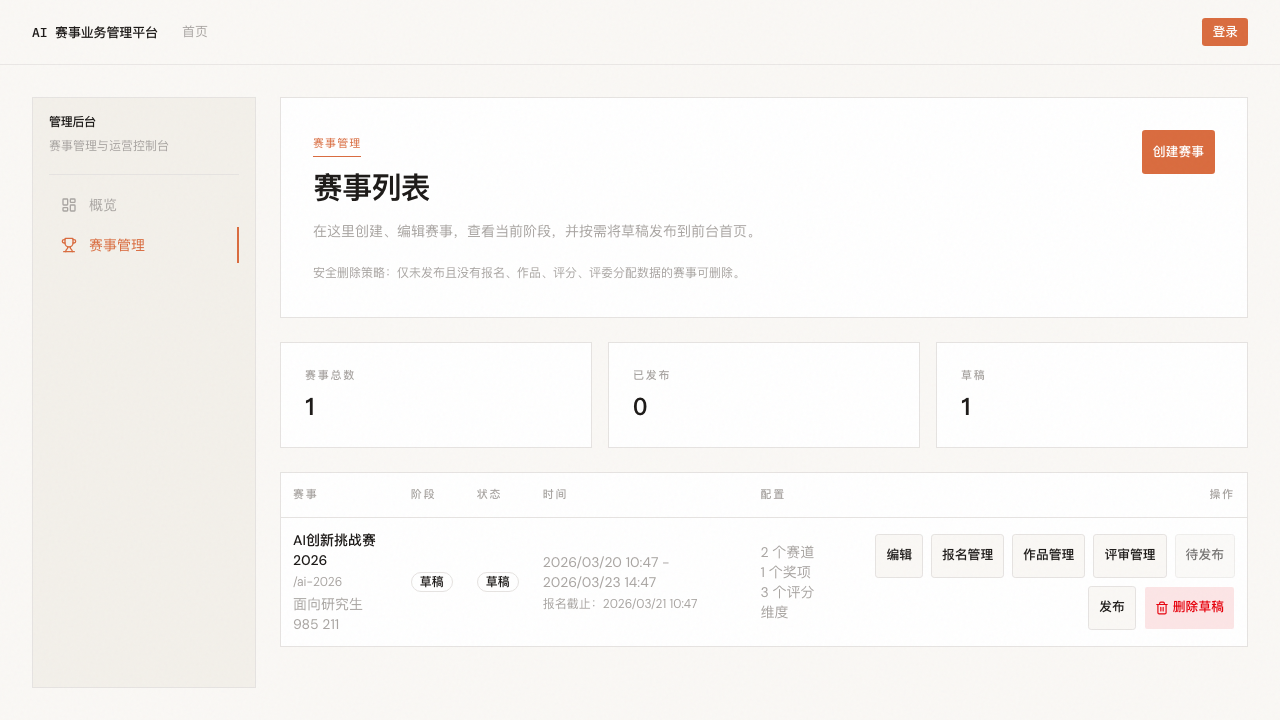
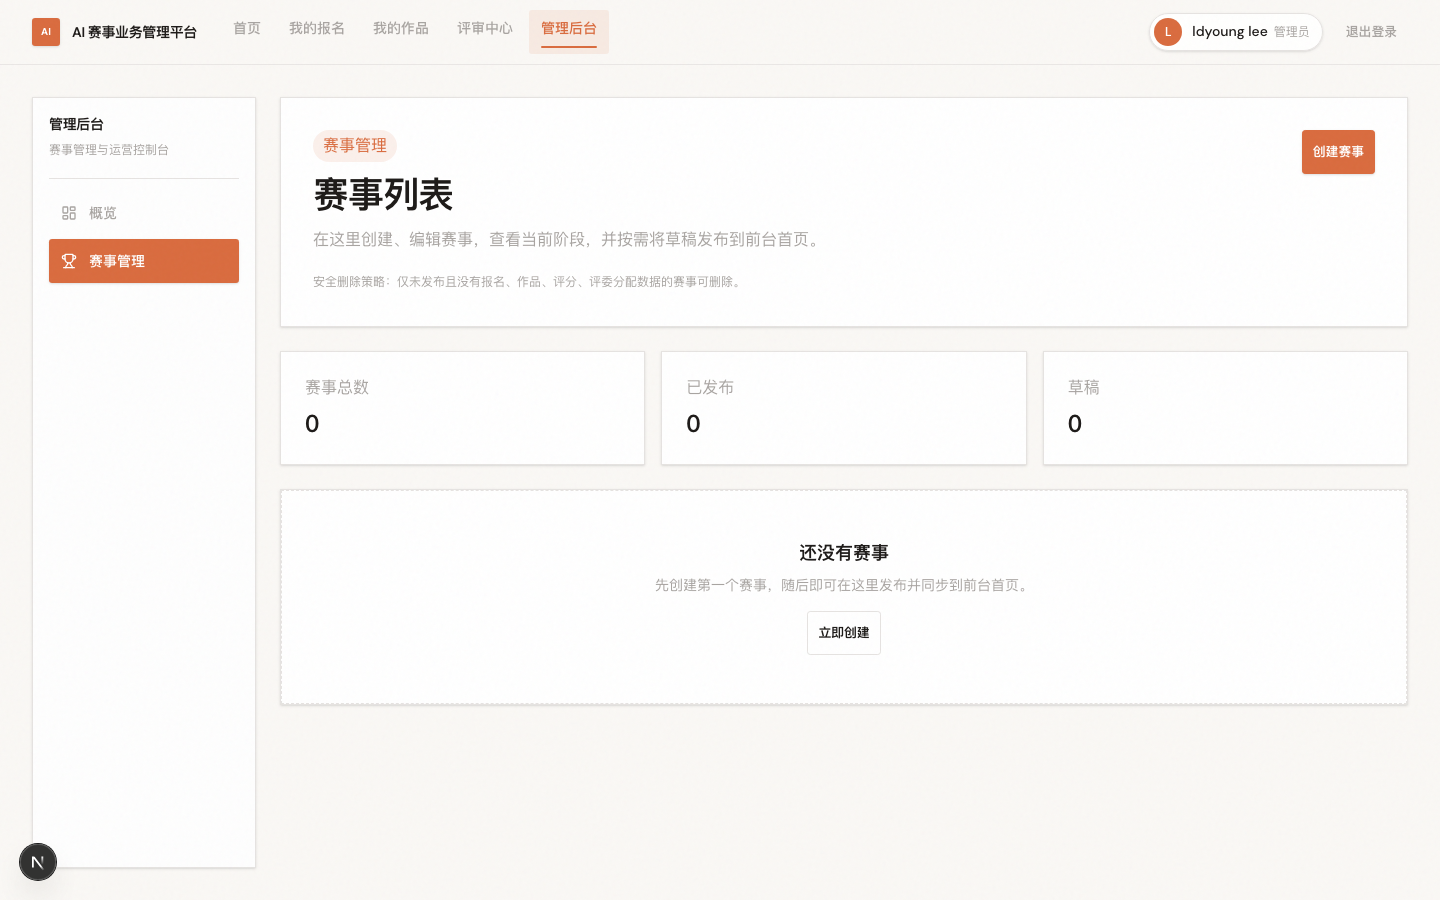
docs: 更新 README 截图与说明，新增快速操作指南
- README: 系统截图从 2 张扩展到 6 张，新增核心流程图、路由总览表、环境变量说明
- 新增 docs/QUICK_START_GUIDE.md 覆盖管理员/参赛者/评委三种角色操作流程
- 更新全部截图为当前最新版本

diff --git a/docs/QUICK_START_GUIDE.md b/docs/QUICK_START_GUIDE.md
@@ -1,0 +1,219 @@
+# AI 赛事业务管理平台 — 快速操作指南
+
+本指南帮助管理员、参赛者、评委快速上手平台核心功能。
+
+---
+
+## 目录
+
+- [一、环境准备](#一环境准备)
+- [二、角色说明](#二角色说明)
+- [三、管理员操作指南](#三管理员操作指南)
+- [四、参赛者操作指南](#四参赛者操作指南)
+- [五、评委操作指南](#五评委操作指南)
+- [六、常见问题](#六常见问题)
+
+---
+
+## 一、环境准备
+
+### 1.1 本地开发环境
+
+```bash
+# 1. 克隆项目
+git clone <repo-url>
+cd 20260317-sspt
+
+# 2. 安装依赖
+bun install
+
+# 3. 配置环境变量
+cp .env.sample .env.local
+# 编辑 .env.local，填写以下必要配置：
+#   DATABASE_URL    — 数据库连接字符串
+#   AUTH_SECRET     — Auth.js 密钥（可用 openssl rand -base64 32 生成）
+#   ADMIN_EMAILS    — 管理员邮箱列表（逗号分隔）
+#   AUTH_GOOGLE_ID  — Google OAuth Client ID
+#   AUTH_GOOGLE_SECRET — Google OAuth Client Secret
+
+# 4. 初始化数据库
+bun run db:migrate
+
+# 5. 启动开发服务器
+bun run dev
+```
+
+打开 [http://localhost:3000](http://localhost:3000) 即可访问。
+
+### 1.2 生产环境
+
+生产环境已部署至 Vercel：**https://sspt-ai.vercel.app/**
+
+---
+
+## 二、角色说明
+
+平台有三种角色，权限逐级递增：
+
+| 角色 | 入口 | 权限范围 |
+|------|------|----------|
+| **参赛者** | 首页 → 登录 | 浏览赛事、报名、提交作品、查看排名 |
+| **评委** | 评审中心 | 对分配的赛事作品进行评分 |
+| **管理员** | 管理后台 | 创建/管理赛事、审核报名、管理作品、分配评委、发布排名 |
+
+> **如何成为管理员？** 在 `.env.local` 的 `ADMIN_EMAILS` 中添加你的 Google 登录邮箱。
+
+---
+
+## 三、管理员操作指南
+
+### 3.1 登录与进入后台
+
+1. 点击右上角 **「登录」** → 使用 Google 账号登录
+2. 登录后导航栏出现 **「管理后台」**，点击进入
+
+![管理后台概览](screenshots/admin-dashboard.png)
+
+### 3.2 创建赛事
+
+1. 进入 **管理后台 → 赛事管理**
+2. 点击右上角 **「创建赛事」**
+3. 填写赛事信息：
+   - **基础信息**：赛事名称、描述、面向对象
+   - **时间窗口**：赛事开始/结束时间、报名截止时间
+   - **赛道设置**：添加一个或多个参赛赛道
+   - **评分维度**：设置评审打分维度及权重
+   - **奖项设置**：配置奖项名称与说明
+4. 点击 **「保存」**，赛事将以 **草稿** 状态创建
+
+### 3.3 发布赛事
+
+1. 在赛事列表中找到目标赛事
+2. 点击 **「发布」** 按钮
+3. 发布后，赛事将出现在前台首页，参赛者可开始报名
+
+> ⚠ 已发布的赛事可以取消发布回到草稿状态。仅未发布且无关联数据的赛事可删除。
+
+### 3.4 报名审核
+
+1. 在赛事列表中点击 **「报名管理」**
+2. 查看报名统计（总数/待审核/已通过/已拒绝）
+3. 操作选项：
+   - **单条审核**：逐条接受或拒绝
+   - **批量操作**：勾选多条后批量接受/拒绝
+   - **导出 CSV**：导出报名数据
+
+### 3.5 作品管理
+
+1. 在赛事列表中点击 **「作品管理」**
+2. 可按状态（草稿/终稿）、赛道筛选
+3. 查看作品详情（描述、源码链接、演示链接、视频）
+4. 导出 CSV
+
+### 3.6 评审管理与排名发布
+
+1. 在赛事列表中点击 **「评审管理」**
+2. **分配评委**：添加评委的邮箱
+3. 查看评分覆盖率和当前排名
+4. 所有评分完成后，点击 **「发布排名」** 将榜单公示到前台
+
+![赛事管理列表](screenshots/admin-events.png)
+
+---
+
+## 四、参赛者操作指南
+
+### 4.1 浏览赛事
+
+1. 访问首页查看当前开放的赛事
+2. 点击赛事卡片进入详情页
+3. 查看赛事时间线、赛道、赛题、奖项、评分维度
+
+### 4.2 报名参赛
+
+1. 在赛事详情页，点击 **「立即报名」**（需先登录）
+2. 填写报名信息（队伍名称、自定义字段等）
+3. 提交后状态为 **「待审核」**
+4. 管理员审核通过后，状态变为 **「已录取」**
+5. 进入 **「我的报名」** 页面，点击 **「确认参赛」**
+
+![我的报名](screenshots/my-registrations.png)
+
+### 4.3 提交作品
+
+1. 确认参赛后，进入赛事详情页点击 **「提交作品」**
+2. 填写作品信息：
+   - 作品名称与描述
+   - 选择参赛赛道与赛题
+   - 填写源码链接、演示链接、视频链接等
+3. 可先保存为 **草稿**，在提交窗口关闭前提交 **终稿**
+4. 在 **「我的作品」** 页面追踪所有作品状态
+
+![我的作品](screenshots/my-projects.png)
+
+### 4.4 查看排名
+
+排名发布后，在赛事详情页底部可查看公开榜单。
+
+---
+
+## 五、评委操作指南
+
+### 5.1 进入评审中心
+
+1. 登录后，导航栏出现 **「评审中心」**（仅被分配了评审任务时可见）
+2. 查看被分配的赛事及评审进度（待评/已评数量）
+
+![评审中心](screenshots/judge.png)
+
+### 5.2 对作品评分
+
+1. 点击 **「进入评审」** 进入单赛事评分页
+2. 左侧展示终稿作品列表（含待评/已评状态标记）
+3. 点击作品查看详情
+4. 右侧按评分维度逐项打分（1-10 分），填写评语
+5. 点击 **「保存评分」**，可反复修改直到评审窗口关闭
+
+---
+
+## 六、常见问题
+
+### Q: 登录后看不到「管理后台」入口？
+
+确保你的 Google 登录邮箱已添加到 `.env.local` 的 `ADMIN_EMAILS` 环境变量中。修改后需重启开发服务器。
+
+### Q: 报名按钮是灰色的？
+
+检查赛事是否在报名窗口期内（当前时间需在报名截止时间之前）。
+
+### Q: 提交作品时显示「不在提交窗口内」？
+
+作品提交有时间窗口限制，需在赛事设定的提交时间范围内操作。
+
+### Q: 评委看不到「评审中心」？
+
+评委需要由管理员在后台「评审管理」中分配。分配后刷新页面即可看到入口。
+
+### Q: 如何删除赛事？
+
+仅 **未发布** 且没有报名、作品、评分等关联数据的赛事可以删除。已发布赛事需先取消发布。
+
+---
+
+## 核心流程速览
+
+```
+管理员创建赛事 → 发布赛事
+                    ↓
+        参赛者浏览 → 报名 → 等待审核
+                    ↓
+        管理员审核报名 → 通过
+                    ↓
+        参赛者确认参赛 → 提交作品（草稿 → 终稿）
+                    ↓
+        管理员分配评委
+                    ↓
+        评委评分打分
+                    ↓
+        管理员发布排名 → 前台公示
+```
